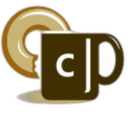
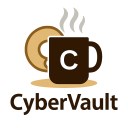
Changed pictures to have the same as the cybervault application and changed a little in popup.html

diff --git a/popup.html b/popup.html
@@ -46,7 +46,7 @@
             color: #9b87f5;
             cursor: pointer;
             padding: 4px;
-            font-size: 20px; /* Make the gear icon bigger */
+            font-size: 20px;
         }
         .settings-btn:hover {
             color: #7E69AB;
@@ -67,7 +67,7 @@
         .btn {
             width: 100%;
             padding: 10px;
-            background-color: #4C6A99;
+            background-color: #5E81AC;
             color: white;
             border: none;
             border-radius: 8px;
@@ -77,7 +77,7 @@
             font-size: 14px;
         }
         .btn:hover {
-            background-color: #7E69AB;
+            background-color: #4C6A99;
         }
         .search-container {
             padding: 8px;
@@ -143,7 +143,7 @@
         .no-passwords {
             text-align: center;
             padding: 16px;
-            color: #C8C8C9;
+            color: #333;
             font-size: 14px;
         }
         .scrollbar-none {
@@ -154,7 +154,6 @@
             display: none;
         }
 
-        /* Settings styles */
         .settings-container {
             display: none;
             padding: 16px;
